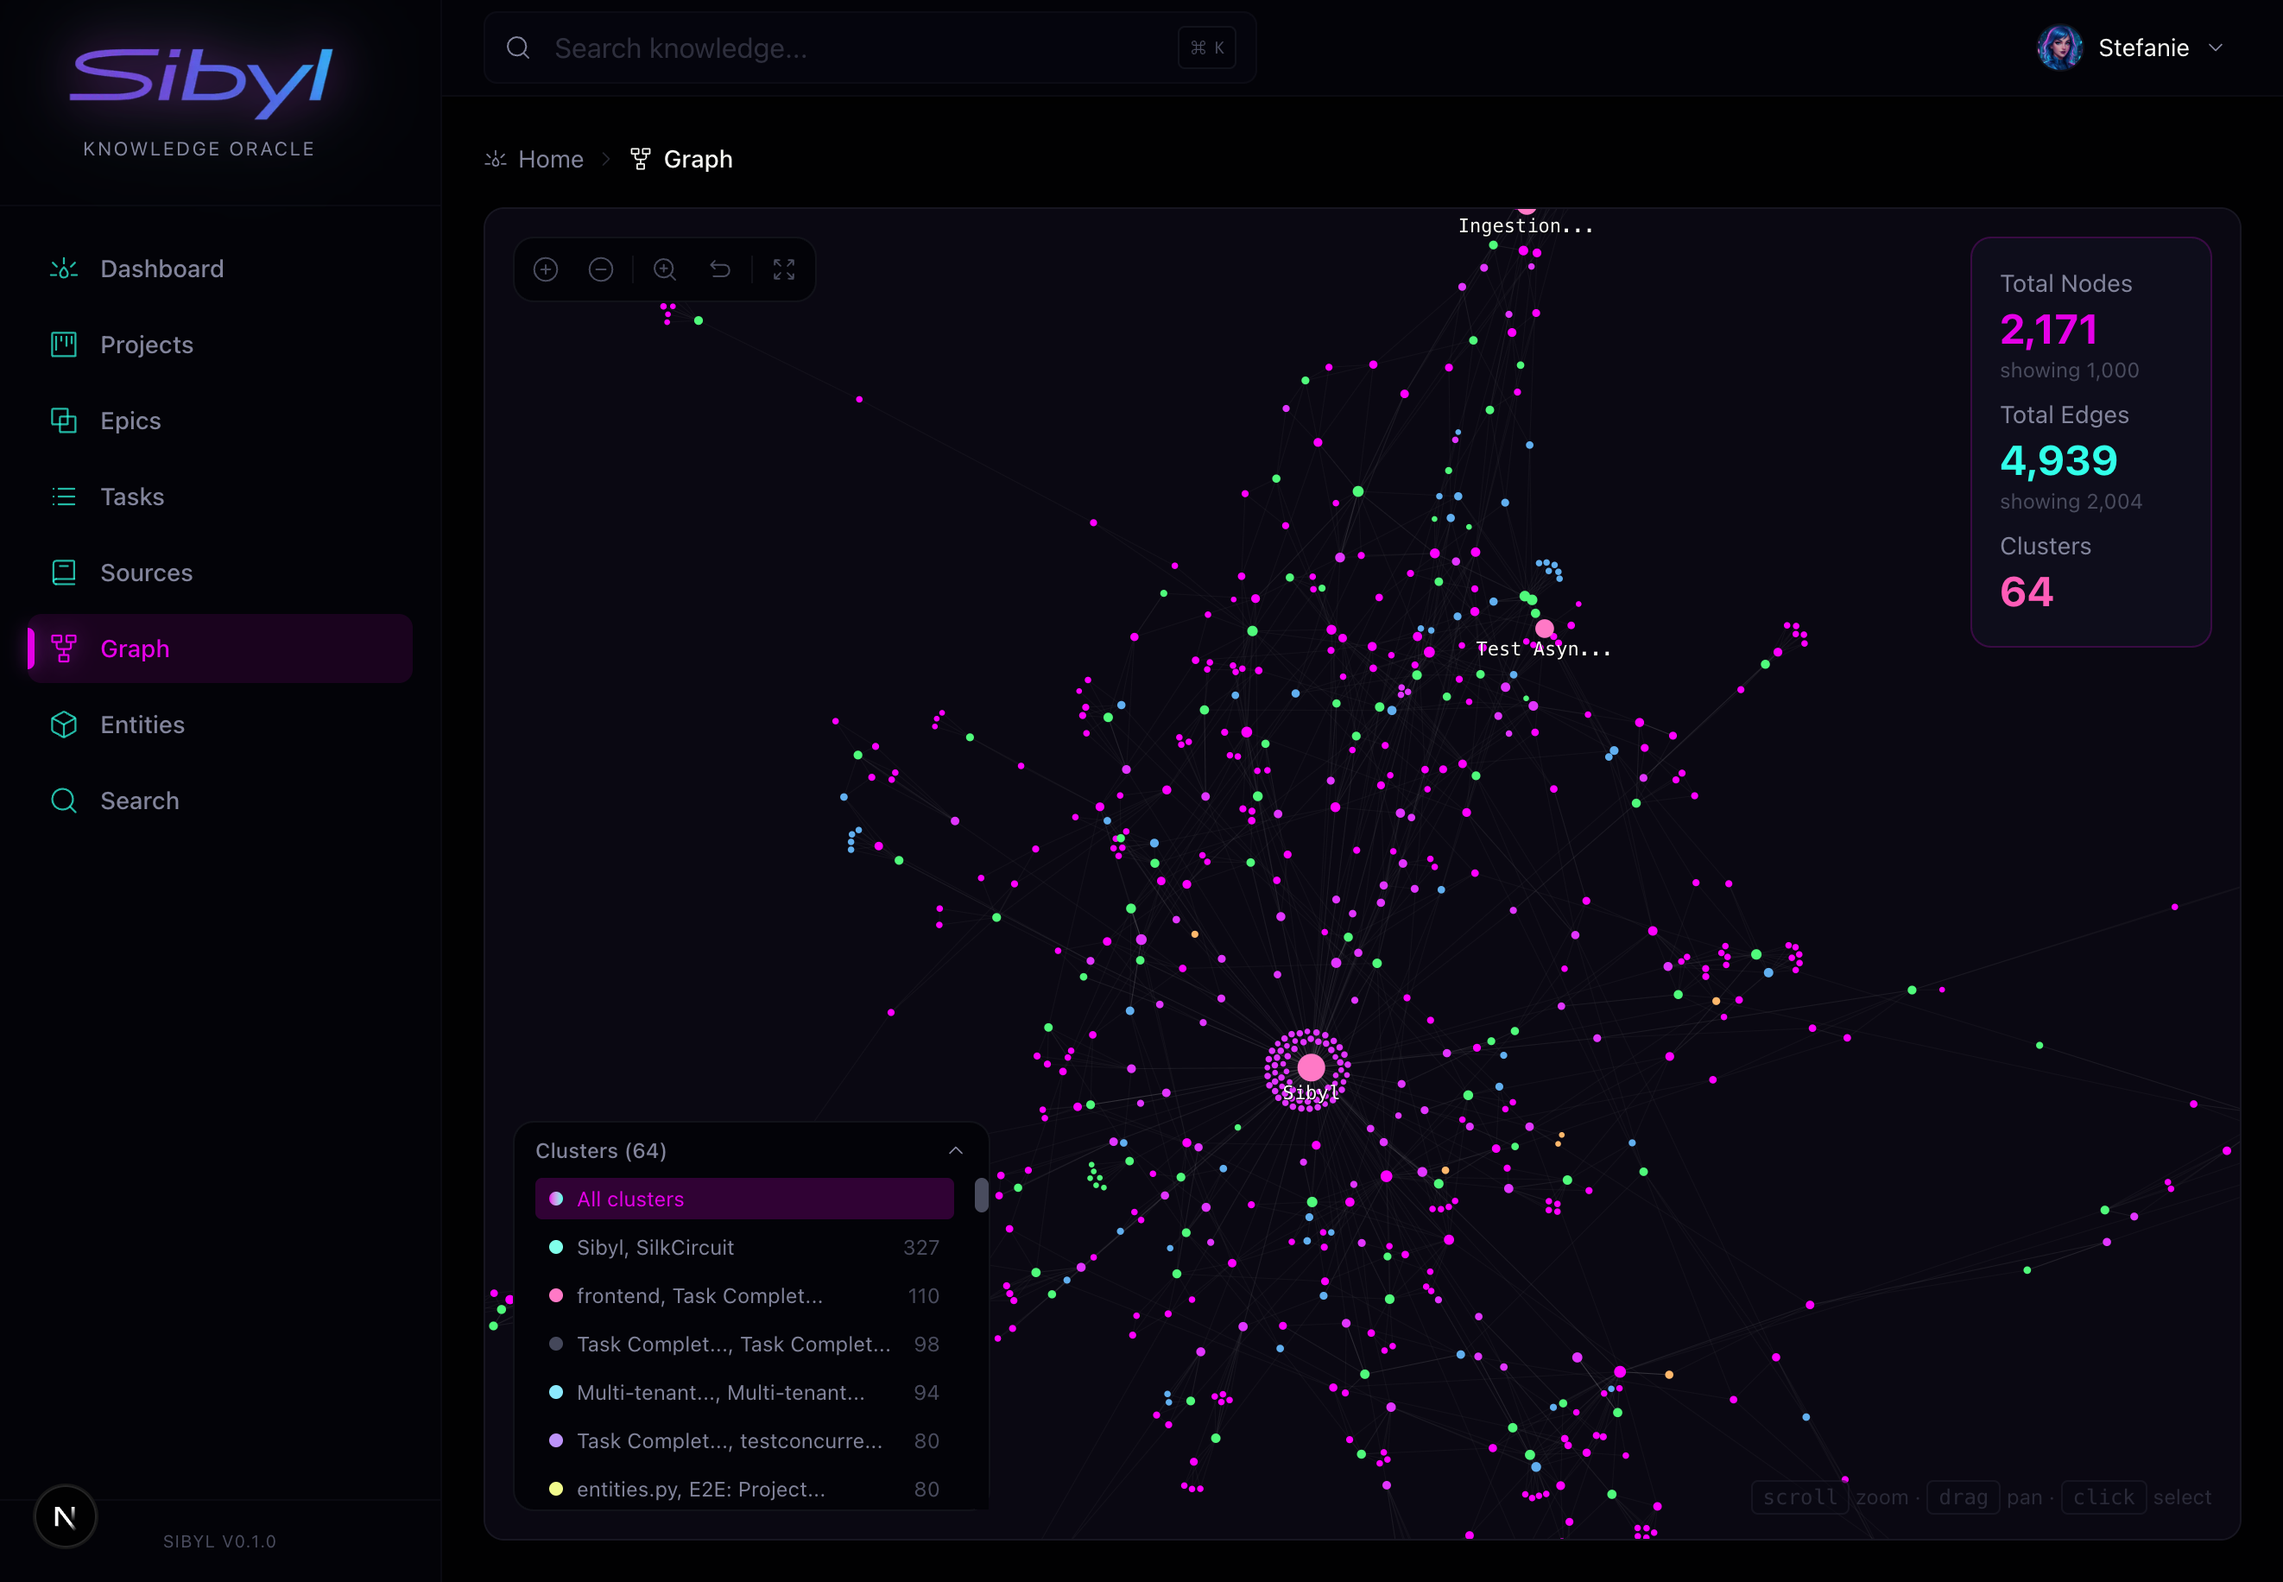
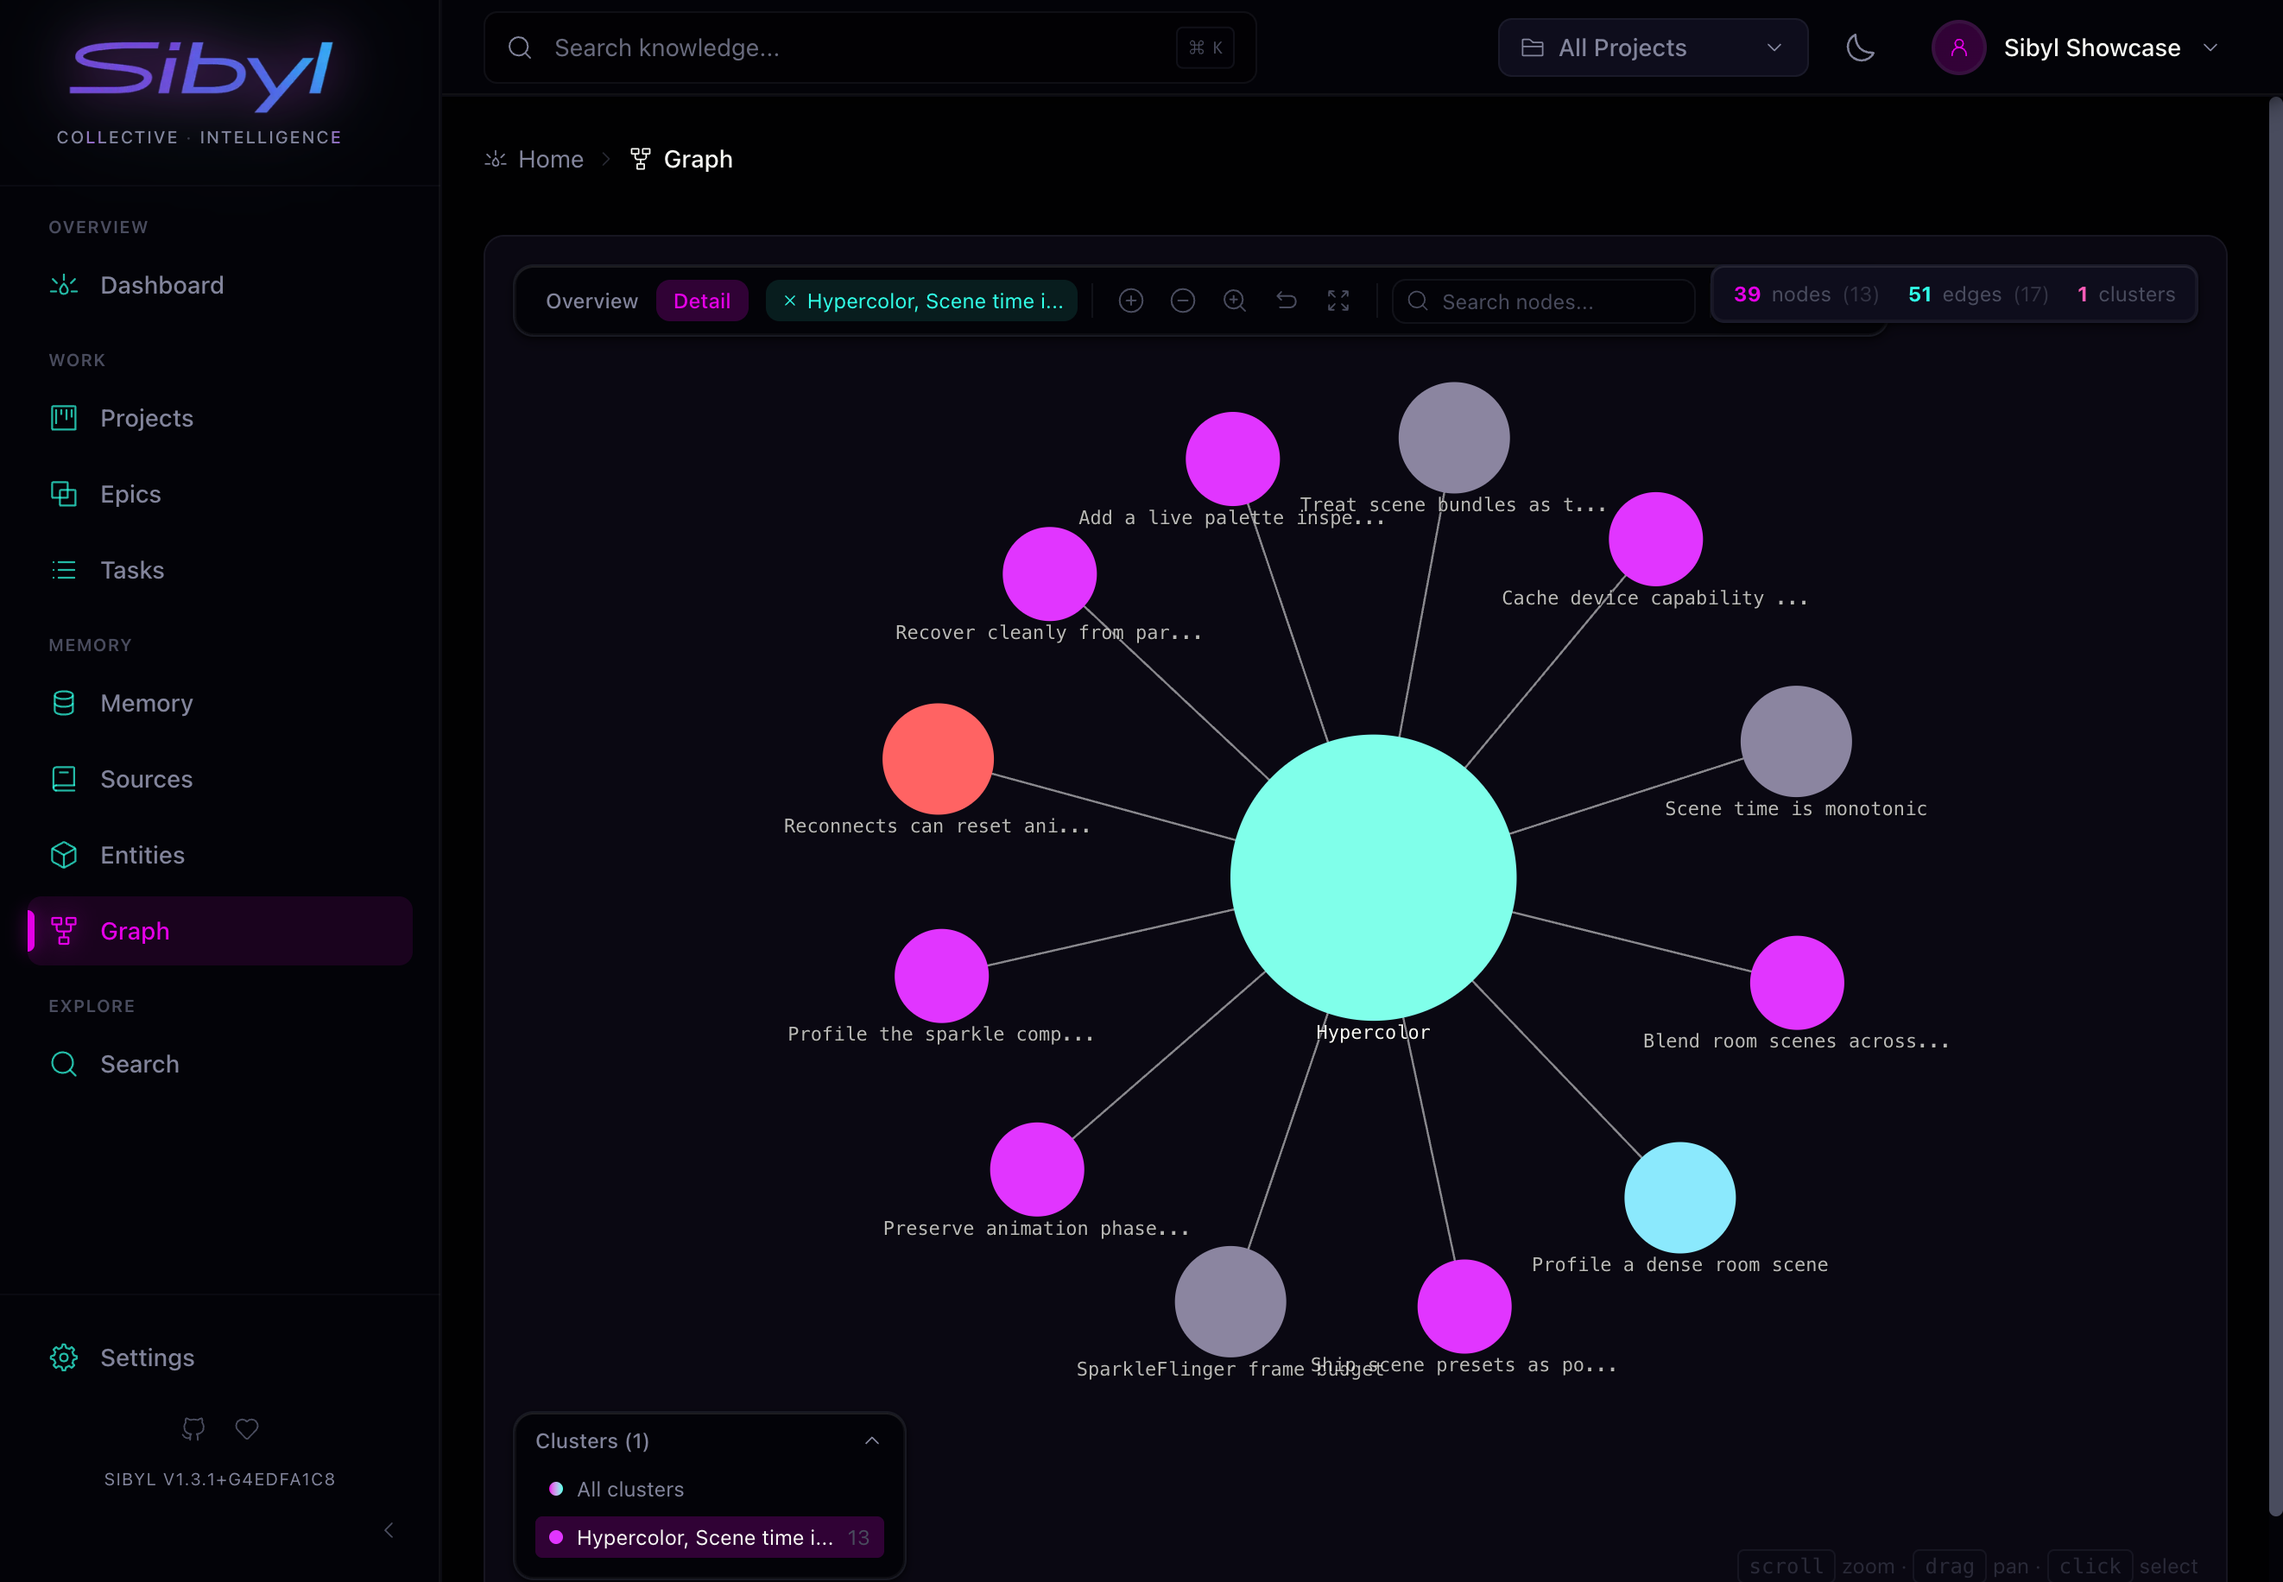
fix(showcase): harden dark screenshot capture (#471)
* fix(auth): avoid protected invitation token binding

SurrealDB reserves the token parameter name in invitation queries. Bind the
submitted value as invitation_token so signup and acceptance work against
the live datastore.

Cover both lookup paths to prevent the protected binding from returning.

* fix(showcase): stabilize authenticated capture

Ignore server-managed metadata while comparing the seeded corpus so normal
runtime bookkeeping cannot invalidate an otherwise identical fixture.

Support an ignored browser state file, dismiss first-run onboarding, enforce
the neon dark theme, and compose useful project, graph, and search views.
The capture still validates every authenticated surface before promotion.

* docs(showcase): refresh dark app screenshots

Replace the public gallery with high-DPI captures from the isolated showcase
account and seeded fixture corpus. Every frame uses the neon dark theme and
shows deliberate, reviewable product state.

Keep the four README mirrors byte-identical to their documentation sources.

* fix(showcase): close final capture scan race

Settle each route before rechecking dark mode, corpus integrity, and
rendered text. The screenshot now follows those fail-closed gates
immediately, preventing late UI changes from bypassing them.

Refresh the image bytes with the corrected capture order.

---------

diff --git a/apps/api/src/sibyl/persistence/surreal/organization_runtime.py b/apps/api/src/sibyl/persistence/surreal/organization_runtime.py
@@ -532,14 +532,14 @@ async def _load_invitation_accept_records(
             RETURN {
                 invitation: (
                     SELECT * FROM organization_invitations
-                    WHERE token_hash = $token_hash OR token = $token
+                    WHERE token_hash = $token_hash OR token = $invitation_token
                     LIMIT 1
                 )[0],
                 organization: (
                     SELECT * FROM organizations
                     WHERE uuid IN (
                         SELECT VALUE organization_id FROM organization_invitations
-                        WHERE token_hash = $token_hash OR token = $token
+                        WHERE token_hash = $token_hash OR token = $invitation_token
                         LIMIT 1
                     )
                     LIMIT 1
@@ -548,7 +548,7 @@ async def _load_invitation_accept_records(
                     SELECT * FROM organization_members
                     WHERE organization_id IN (
                         SELECT VALUE organization_id FROM organization_invitations
-                        WHERE token_hash = $token_hash OR token = $token
+                        WHERE token_hash = $token_hash OR token = $invitation_token
                         LIMIT 1
                     )
                         AND user_id = $user_id
@@ -558,19 +558,19 @@ async def _load_invitation_accept_records(
                     SELECT * FROM organization_members
                     WHERE organization_id IN (
                         SELECT VALUE organization_id FROM organization_invitations
-                        WHERE token_hash = $token_hash OR token = $token
+                        WHERE token_hash = $token_hash OR token = $invitation_token
                         LIMIT 1
                     )
                         AND user_id IN (
                             SELECT VALUE created_by_user_id FROM organization_invitations
-                            WHERE token_hash = $token_hash OR token = $token
+                            WHERE token_hash = $token_hash OR token = $invitation_token
                             LIMIT 1
                         )
                     LIMIT 1
                 )[0],
             };
         """,
-        token=token,
+        invitation_token=token,
         token_hash=_hash_invitation_token(token),
         user_id=str(user_id),
     )
@@ -1344,8 +1344,8 @@ async def validate_org_invitation_for_signup(*, token: str, email: str) -> Invit
         records = _normalize_records(
             await client.execute_query(
                 "SELECT * FROM organization_invitations "
-                "WHERE token_hash = $token_hash OR token = $token LIMIT 1;",
-                token=token.strip(),
+                "WHERE token_hash = $token_hash OR token = $invitation_token LIMIT 1;",
+                invitation_token=token.strip(),
                 token_hash=_hash_invitation_token(token),
             )
         )

diff --git a/apps/api/tests/test_organization_runtime.py b/apps/api/tests/test_organization_runtime.py
@@ -1616,6 +1616,47 @@ async def test_surreal_create_org_invitation_rejects_admin_owner_role(
 
 
 @pytest.mark.asyncio
+async def test_surreal_signup_invitation_avoids_protected_token_binding(
+    monkeypatch: pytest.MonkeyPatch,
+) -> None:
+    email = "ember@example.com"
+    invite_record = {
+        "uuid": str(uuid4()),
+        "organization_id": str(uuid4()),
+        "invited_email": email,
+        "invited_role": OrganizationRole.MEMBER.value,
+        "created_by_user_id": str(uuid4()),
+        "expires_at": datetime.now(UTC) + timedelta(days=7),
+        "accepted_at": None,
+        "accepted_by_user_id": None,
+        "created_at": datetime.now(UTC),
+        "updated_at": datetime.now(UTC),
+    }
+    calls: list[tuple[str, dict[str, object]]] = []
+
+    class FakeClient:
+        async def execute_query(self, query: str, **params: object) -> object:
+            calls.append((query, params))
+            return [invite_record]
+
+    @asynccontextmanager
+    async def fake_scope():
+        yield FakeClient()
+
+    monkeypatch.setattr(surreal_organization_runtime, "_auth_client_scope", fake_scope)
+
+    await surreal_organization_runtime.validate_org_invitation_for_signup(
+        token="invite-token",
+        email=email,
+    )
+
+    query, params = calls[0]
+    assert "token = $invitation_token" in query
+    assert params["invitation_token"] == "invite-token"
+    assert "token" not in params
+
+
+@pytest.mark.asyncio
 async def test_surreal_accept_org_invitation_rejects_admin_created_owner_invite(
     monkeypatch: pytest.MonkeyPatch,
 ) -> None:
@@ -1791,6 +1832,9 @@ async def test_surreal_accept_org_invitation_creates_session_and_marks_accepted(
     assert fake_client.written_invitation["accepted_by_user_id"] == str(user.id)
     queries = [query for query, _params in fake_client.calls]
     assert "RETURN" in queries[0]
+    first_params = fake_client.calls[0][1]
+    assert "invitation_token" in first_params
+    assert "token" not in first_params
     assert any("CREATE organization_members CONTENT $record" in query for query in queries)
     assert any("UPSERT organization_invitations CONTENT $record" in query for query in queries)
     assert all("DELETE FROM organization_invitations" not in query for query in queries)

diff --git a/tools/tests/test_showcase.py b/tools/tests/test_showcase.py
@@ -175,6 +175,27 @@ def test_complete_showcase_corpus_is_accepted() -> None:
     _validate_existing_data(entities, sources, require_complete=True)
 
 
+def test_server_managed_entity_metadata_is_ignored() -> None:
+    entities, sources = _complete_corpus()
+    for entity in entities:
+        metadata = entity["metadata"]
+        assert isinstance(metadata, dict)
+        metadata.update(
+            {
+                "citation_count": 0,
+                "embedding_metadata": {},
+                "entity_type": entity["entity_type"],
+                "last_recalled_at": None,
+                "last_used_at": None,
+                "misled_count": 0,
+                "retrieval_count": 0,
+                "revision": 1,
+            }
+        )
+
+    _validate_existing_data(entities, sources, require_complete=True)
+
+
 def test_truncated_source_page_is_refused() -> None:
     assert _complete_source_page({"sources": [{"id": "one"}], "total": 1}) == [{"id": "one"}]
     with pytest.raises(ShowcaseSafetyError, match="over 200 sources"):
@@ -186,6 +207,10 @@ def test_corpus_snapshot_is_deterministic_and_binds_generated_ids() -> None:
     expected = build_corpus_snapshot(entities, sources)
 
     assert build_corpus_snapshot(reversed(entities), reversed(sources)) == expected
+    metadata = entities[0]["metadata"]
+    assert isinstance(metadata, dict)
+    metadata["retrieval_count"] = 12
+    assert build_corpus_snapshot(entities, sources) == expected
     entities[0]["id"] = "replacement-project"
     assert build_corpus_snapshot(entities, sources) != expected
 

diff --git a/tools/showcase/seed.py b/tools/showcase/seed.py
@@ -372,10 +372,18 @@ def _expected_entity_projections(project_ids: Mapping[str, str]) -> dict[tuple[s
 _DYNAMIC_METADATA_FIELDS = frozenset(
     {
         "added_at",
+        "citation_count",
         "created_by",
+        "embedding_metadata",
+        "entity_type",
+        "last_recalled_at",
+        "last_used_at",
+        "misled_count",
         "modified_by",
         "organization_id",
         "record_id",
+        "retrieval_count",
+        "revision",
         "updated_at",
     }
 )
@@ -455,7 +463,6 @@ def build_corpus_snapshot(
         {
             "id": str(entity.get("id") or ""),
             **_entity_projection(entity),
-            "metadata": dict(entity.get("metadata") or {}),
             "created_at": entity.get("created_at"),
             "updated_at": entity.get("updated_at"),
             "related": entity.get("related"),
